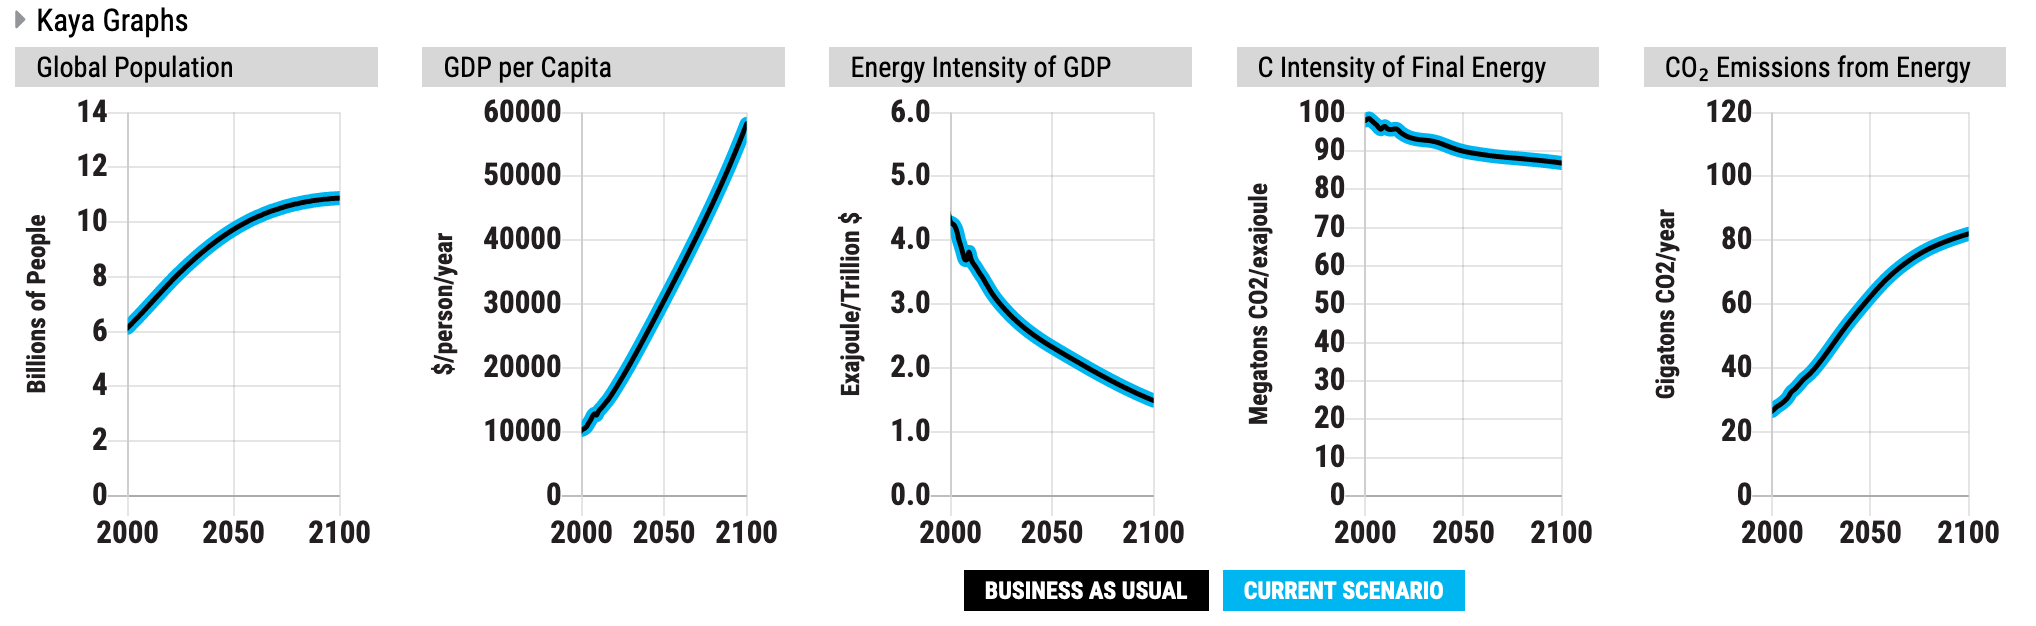
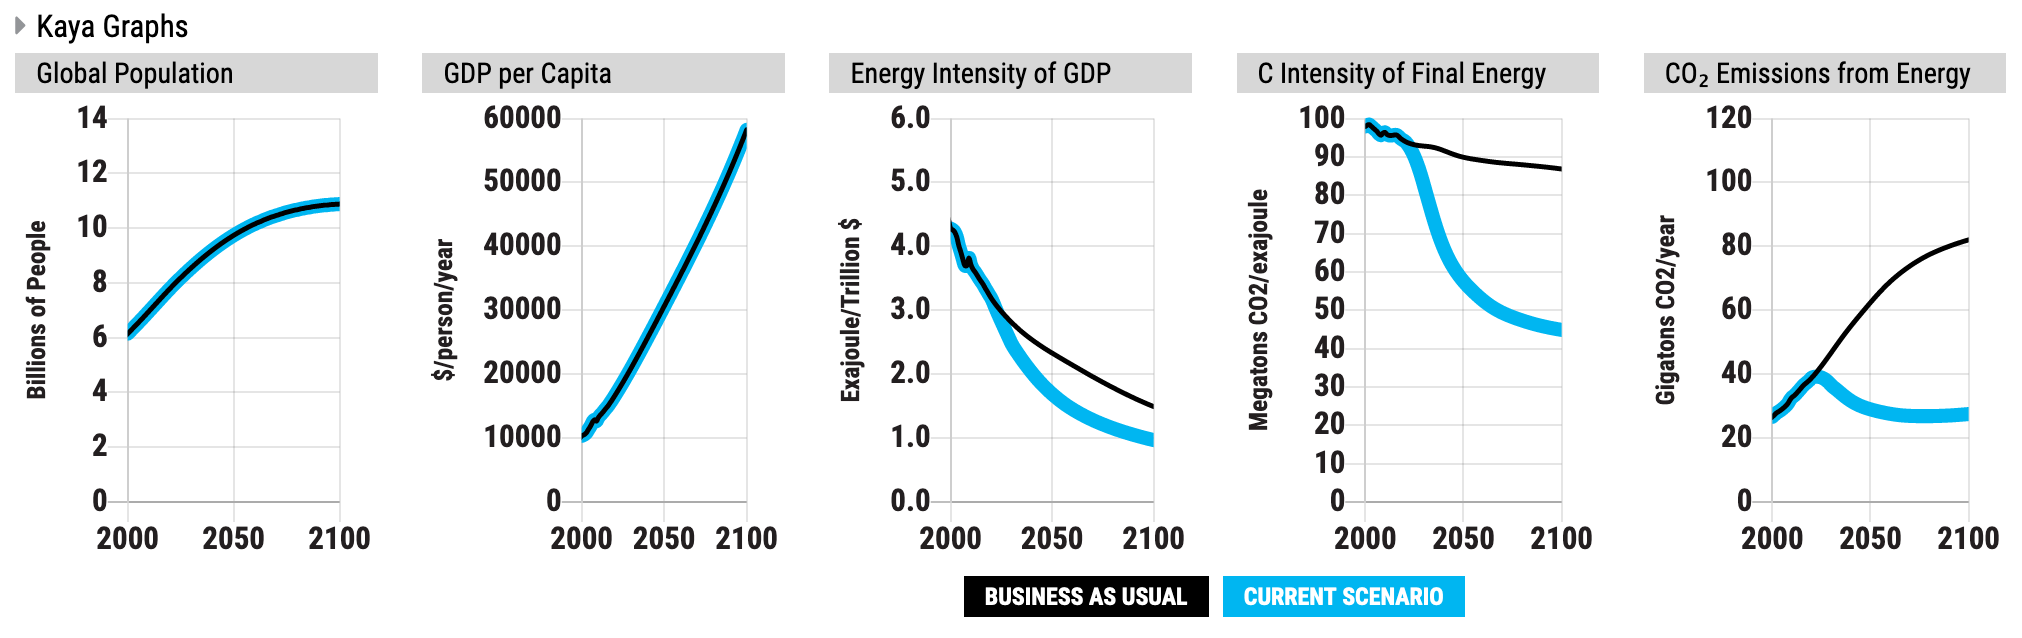
Replaced Kaya screenshot image and updated text for Final Energy graph edit in Kaya

diff --git a/docs/guide/background.rst b/docs/guide/background.rst
@@ -117,7 +117,7 @@ A challenge to limiting future warming in this simulation is the powerful growth
 
 -  “We’ve done a lot in energy efficiency and clean energy – why haven’t emissions reduced substantially enough?”
 
-**To illustrate this point:** See the Kaya Graphs view below for a low emissions scenario with increased energy efficiency and a transition to low carbon energy sources. Even though Energy Intensity of GDP improves and the C Intensity of Energy decreases as well, CO\ :sub:`2` Emissions from Energy doesn't see as dramatic a drop as expected due to the continued growth in Global Population and GDP per Capita.
+**To illustrate this point:** See the Kaya Graphs view below for a low emissions scenario with increased energy efficiency and a transition to low carbon energy sources. Even though Energy Intensity of GDP improves and the C Intensity of Final Energy decreases as well, CO\ :sub:`2` Emissions from Energy doesn't see as dramatic a drop as expected due to the continued growth in Global Population and GDP per Capita.
 
 |image28|
 
